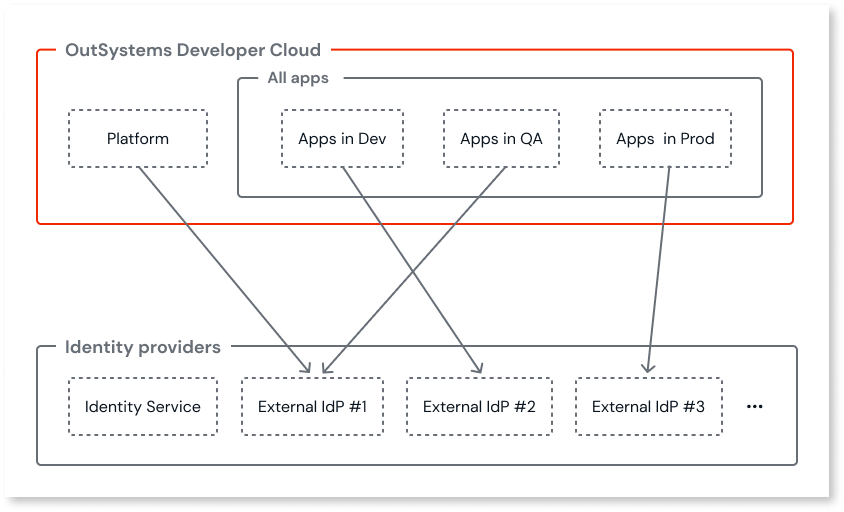
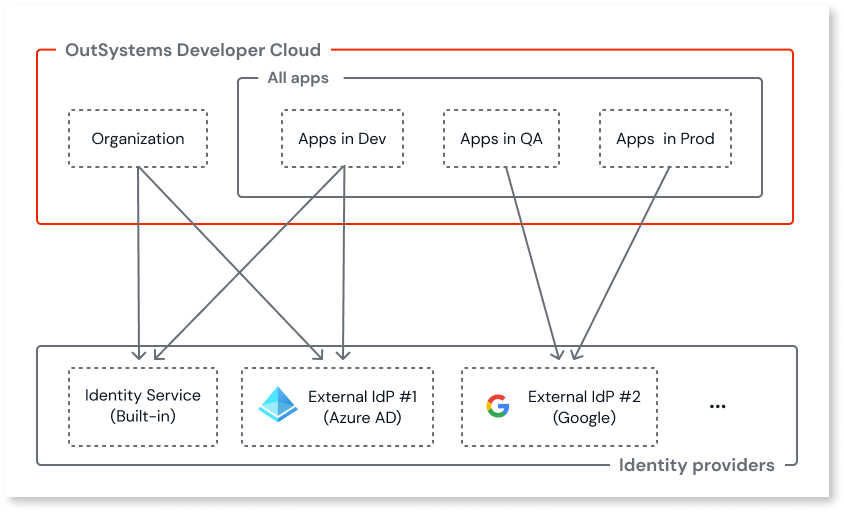
About social logins and multiple AuthN providers

diff --git a/src/eap/external-idps/intro.md b/src/eap/external-idps/intro.md
@@ -1,5 +1,5 @@
 ---
-summary: Information about external IdPs and how to use them
+summary: Information about external IdPs and how to use them.
 tags: 
 locale: en-us
 guid: 5aa8692d-68bf-41a1-89ec-5e8fc7069e29
@@ -8,15 +8,15 @@ app_type: mobile apps, reactive web apps
 
 # Configuring authentication with external identity providers
 
-OutSystems Developer Cloud (ODC) comes bundled with Identity Service, a built-in Identity Provider (IdP). It provides authentication, authorization, and user management for the [Platform services](../architecture/intro.md#platform) and your apps. You access the Platform services through ODC Studio and ODC Portal. As the default IdP, Identity Service is always available.
+OutSystems Developer Cloud (ODC) comes bundled with Identity Service, a built-in Identity Provider (IdP). It provides authentication, authorization, and user management for your [organization](../architecture/intro.md#platform) and apps. You access your organization services through ODC Portal and ODC Studio. As the default IdP, Identity Service is always available.
 
-In addition, you can use an external, self-managed IdP as the authentication provider for the Platform services and your apps. You can use any IdP that follows the OpenID Connect (OIDC) standard. You can configure most commercial IdPs to support this standard. ODC supports using **PKCE** (Proof Key for Code Exchange) with external IdPs for an additional layer of security.
+In addition, you can use an external, self-managed IdP as an authentication provider for your organization and your apps. You can use any IdP that follows the OpenID Connect (OIDC) standard. You can configure most commercial IdPs, such as AzureAD and Okta, to support this standard. ODC supports using **PKCE** (Proof Key for Code Exchange) with external IdPs for an additional layer of security.
 
-When you successfully configure and save an external IdP to ODC, it becomes an option for use as the active provider for the Platform services, your apps, or both. You can use a different active provider for the Platform services and each stage your apps are deployed to. You must use the same provider for all the apps deployed to a given stage. The following diagram shows an example setup.
+You can easily add a [supported social provider](#supported-social-providers) to use social authentication for your organization and your apps.
+
+When you successfully configure and save an external IdP to ODC, it becomes an option for use as an active provider for your organization, your apps, or both. You can use multiple active providers for your organization and each stage your apps are deployed to. You must use the same provider(s) for all the apps deployed to a given stage. The following diagram shows an example setup.
 
 ![External IdPs concept](images/external-idps-setup-example-diag.png "External IdPs concept")
-
-In ODC Portal on the **Users** tab, you can manage users associated with a provider.
 
 ## Before you begin
 
@@ -31,15 +31,22 @@ Before you begin configuring an external identity provider for use in ODC, you n
 * URL of the OpenID configuration
 * Provider credentials. Your provider might use different names for these fields such as **Application ID** for the **Client ID** field and **Client secret** or **Value** for the **Client secret (secret value)** field. For more guidance, see your provider's support documentation.
 
+If you want a user associated with an external provider to retain their profile and associated roles, they should use the same email address as on the built-in provider.
+
 ## Add an external IdP
 
-ODC admins can configure an external IdP by going to the ODC Portal and selecting the **Identity providers** tab. A list of built-in providers any external IdPs already added displays.
+ODC admins can configure an external IdP by going to the ODC Portal and selecting the **Identity providers** tab. A list of built-in providers and any external IdPs already added displays.
 
-To launch the **New provider** configuration screen, click the **Add Provider** > **OpenID Connect** button. Now follow these steps:
+To launch the **New provider** configuration screen, click the **Add Provider** dropdown and select **OpenID Connect** or a supported social provider. Now follow these steps:
+
+### OpenID Connect
 
 1. Enter a name for the new provider in the **Provider name** field. This can be any name less than 255 characters and can't include special characters.
+
 1. Enter the URL of the OpenID configuration in the **Discovery endpoint** field. 
+
 1. Click **Get details**. ODC retrieves the JSON of the OpenID configuration and shows a preview. 
+
 1. Enter the credentials for the provider in the **Client ID** and **Client secret (secret value)** fields. Then, select **PKCE** if your provider supports it.
 
     <div class="info" markdown="1">
@@ -47,98 +54,74 @@ To launch the **New provider** configuration screen, click the **Add Provider** 
     </div>
 
 1. If your provider uses different attribute names, then in the **Claim Mapping** section overwrite the prefilled **Name** and **Email** fields. Otherwise, skip this step. For more guidance, see your provider's support documentation.
-1. Click **Save**. ODC tests the configuration and on success adds the provider to the list of available providers. If the test fails, a notification with the error displays.
 
-## Apply an external IdP
+1. Click **Save configuration**. ODC tests the configuration and, on success, adds the provider to the list of available providers. If the test fails, a notification with the error displays.
 
-To apply an added external IdP, navigate to the **Identity providers** tab in ODC Portal. Then follow these steps:
+### Supported social provider
 
-1. Click on the card of the provider you want to apply as the provider for the Platform services, your apps, or both.
-1. Check the summary of the configuration details. If you want to proceed, click the **Apply provider** button.
-1. Check the boxes of where you want to apply the provider and then click **Next**.
+1. Enter a name for the new provider in the **Provider name** field. This can be any name less than 255 characters and can't include special characters.
+
+1. Enter the credentials for the provider in the **Client ID** and **Client secret** fields.
 
     <div class="info" markdown="1">
 
-    When you switch the IdP for your Platform services or apps, all signed-in users get logged out when their current access token expires. They have to log back in using the newly applied provider. For the Platform services, they may have to wait several minutes to log back in while new certificates are processed.
+    ODC safely stores the configuration details in a secret manager.
 
     </div>
 
-1. Read the confirmation pop-up and then do one of the following:
-    * Click the **Replace provider** button to confirm. 
-    * Click the **Cancel** to exit.
+1. Click **Save configuration**. ODC tests the configuration and, on success, adds the provider to the list of available providers. If the test fails, a notification with the error displays.
+
+## Assign an external IdP
+
+To assign an added external IdP, navigate to the **Identity providers** tab in ODC Portal. Then follow these steps:
+
+1. Click on the provider card you want to assign as a provider for your organization, your apps, or both.
+
+1. Check the summary in **Configuration details**. If you want to proceed, click the **Assign** button (when provider not assigned anywhere yet) or **Manage assignments** (when already assigned).
+
+    <div class="info" markdown="1">
+
+    You can assign a maximum of two identity providers to each app stage.
+
+    </div>
+
+1. Check the boxes where you want to assign the provider. For each app stage you assign, select **Add to the current list of providers** or **Replace all current providers**. If you replace all current providers, all end-users for all apps in each app stage(s) you assign can no longer authenticate with the currently assigned provider(s).
+
+1. Copy the pair(s) of **Redirect URLs** to the list of permitted redirects in the setup page of your external provider. You should copy the pair(s) for both the built-in domain and any active [custom domains](../custom-domains.md). If you're configuring [Okta](okta.md#setup-redirect-urls) you can follow the embedded link for specific guidance. Otherwise see your provider's support documentation for further guidance (for example, [Azure AD](https://learn.microsoft.com/en-us/azure/active-directory/develop/quickstart-register-app#add-a-redirect-uri)). Click **Next**.
+
+    <div class="info" markdown="1">
+
+    When you switch the IdP for your organization or apps, all signed-in users get logged out when their current access token expires. They have to log back in using the newly assigned provider. Users may have to wait several minutes to log back in while new certificates are processed.
+
+    </div>
+
+1. Read the confirmation summary, then do one of the following:
+    * Click the **Apply changes** button to confirm. 
+    * Click the **Previous** to exit.
 
     Once ODC applies the provider successfully, a notification displays.
 
-1. Copy the pair(s) of **Redirect URLs** to the list of permitted redirects in the setup page of your external provider. You should copy the pair(s) for both the built-in domain and any active [custom domains](../custom-domains.md). If you're configuring [Okta](okta.md#setup-redirect-urls) you can follow the embedded link for specific guidance. Otherwise see your provider's support documentation for further guidance (for example, [Azure AD](https://learn.microsoft.com/en-us/azure/active-directory/develop/quickstart-register-app#add-a-redirect-uri)).
-
 <div class="info" markdown="1"> 
 
-When a provider is applied to the Platform services, new certificates are processed. This process may take several minutes. When it completes, you can log back into ODC Portal.
+When a provider is assigned to your organization, new certificates are processed. This process may take several minutes. When it completes, you can log back into ODC Portal.
 
 </div>
 
-## Use external IdP in an app { #in-an-app }
+When a provider is assigned for use by the apps, you need to create the logic in ODC Studio for each app you want to use it. Follow the guidance on how to do that [here](apps.md).
 
-After you apply an external IdP to stage(s) (Dev, QA, Prod) in ODC Portal, you must modify the end-user login and logout flow for each app in which you want to use it. 
+## Edit the configuration or delete an external IdP
 
-One solution is to replace the built-in provider with the external provider. For each app, open it in ODC Studio and follow the steps in the **Modify main user login flow**, **Modify user info bar login flow** and **Modify user info bar logout flow** sections below.
+You can only edit or delete a provider not in use. Navigate to the **Identity providers** tab in ODC Portal. Then:
 
-### Modify main user login flow
+1. Click on the provider card you want to edit or delete.
 
-1. To load the login action onto the canvas, click the **Interface** tab, then expand the **UI Flows** > **Common** folder and double-click **OnException**. You see the end-user login flow for the built-in provider.
+1. Click the ellipsis button to the right of the **Assign** button. Then click the **Edit configuration** or **Delete provider** button to launch the edit page or launch the delete confirm pop-up.
 
-    ![Built-in provider flow](images/built-in-provider-flow-ss.png "Built-in provider flow")
+## Supported social providers
 
-1. To delete the built-in login screen, delete the **Common\Login**  element from the logic flow.
+ODC provides accelerators to add the following social providers easily.
 
-1. Navigate to the **Add public elements** icon on the top toolbar of ODC Studio or use the **Ctrl+Q** shortcut. Search for the [**GetExternalLoginURL** action](../reference/system-actions/auth.md#getexternallogouturl), select it, and click **Add**.
-
-1. Click the **Logic** tab. Expand the **Client Actions** > **(System)** folder. Drag the **GetExternalLoginURL** action in place after the **LastRequest** element.
-
-1. For the **IdentityProvider** setting, use the name of the provider you applied in ODC Portal. It takes the form of a string. For example, `"providerA"`.
-
-1. Drag a **Destination** element from the toolbox bar to end the flow. A **Select Destination** popup screen displays. Expand the **UI Flows** > **Common** folder and select **RedirectToURL**.
-
-    ![External provider flow](images/external-provider-flow-ss.png "Built-in provider flow")
-
-1. In the Properties pane for the **RedirectToURL** action, set the **URL** setting to `GetExternalLoginURL.ExternalLoginURL`. This is where the user is redirected to perform the login.
-
-### Modify user info bar login flow
-
-1. Click the **Interface** tab, then expand the **UI Flows** > **Common** folder and double-click **UserInfo**. You see the user info block which by default displays in the right corner of the top bar of your published app.
-
-1. Click the **Login** text. Hover over the **Text** button and then click the **Link** button. The **Properties** pane displays to the right of the canvas.
-
-1. In the **On Click** setting select **New Client Action** from the dropdown. A new client action is created, set in the **On Click** setting and displayed on the canvas.
-
-1. Click the **Logic** tab. Expand the **Client Actions** > **(System)** folder. Drag the **GetExternalLoginURL** action in place after the **Start** element.
-
-1. For the **IdentityProvider** setting, use the name of the provider you applied in ODC Portal. It takes the form of a string. For example, `"providerA"`.
-
-1. Delete the **End** element. Drag a **Destination** element from the toolbox bar to end the flow. A **Select Destination** popup screen displays. Expand the **UI Flows** > **Common** folder and select **RedirectToURL**.
-
-    ![New UserInfo action](images/new-userinfo-action-ss.png "New UserInfo action")
-
-1. In the Properties pane for the **RedirectToURL** action, set the **URL** setting to `GetExternalLoginURL.ExternalLoginURL`. This is where the user is redirected to perform the login.
-
-### Modify user info bar logout flow
-
-1. Click the **Interface** tab, then expand the **UI Flows** > **Common** > **UserInfo** folder and double-click **ClientLogout**. You see the logout action for the user info bar.
-
-    ![ClientLogout](images/clientlogout-ss.png "ClientLogout")
-
-1. To delete the built-in logout action, delete the **Logout** element from the logic flow.
-
-1. Navigate to the **Add public elements** icon on the top toolbar of ODC Studio or use the **Ctrl+Q** shortcut. Search for the [**GetExternalLogoutURL** action](../reference/system-actions/auth.md#getexternallogouturl), select it, and click **Add**.
-
-    ![ClientLogout Modified](images/clientlogout-mod-ss.png "ClientLogout Modified")
-
-1. Click the **Logic** tab. Expand the **Client Actions** > **(System)** folder. Drag the **GetExternalLogoutURL** action in place after the **Start** element.
-
-After you complete all the steps in all the sections, republish and [promote](../deploy-apps.md) the revision of the app to the stage(s) where the provider is active.
-
-If you revert the provider for stage(s) back to the built-in provider, you must also revert the end-user login and logout flow for the apps back to the original state.
-
-## Edit an external IdP
-
-You can only edit the configuration details for a provider not in use. Edit the configuration details in the **Identity providers** tab of the ODC Portal.
+| Provider    |
+| ----------- |
+| Google      |
+| Facebook    |

diff --git a/src/eap/external-idps/apps.md b/src/eap/external-idps/apps.md
@@ -1,0 +1,108 @@
+---
+summary: Use external identity provider in an app
+tags: 
+locale: en-us
+guid: e2b2541f-80b6-49b7-8961-8b7ad2ad65f3
+app_type: mobile apps, reactive web apps
+---
+
+# Use external identity providers in an app
+
+After assigning an external IdP to stage(s) (Development, QA, Production) in ODC Portal, you must modify the end-user login and logout flows for each app you want to use it.
+
+There are two ways you can do this. 
+
+1. [**Delete the built-in login screen and redirect to an external provider.**](#delete-the-built-in-login-screen-and-redirect-to-external-provider) The recommended solution if you want to use a single external provider for your app, without the option of built-in provider.
+
+2. [**Modify the built-in login screen to add button(s) for external provider login.**](#modify-the-built-in-login-screen-to-add-buttons-for-external-provider-login) The recommended solution if using multiple external providers or a single external provider and retain the option to login with the built-in provider.
+
+After you complete the steps for your selected solution, republish the app and [promote](../deploy-apps.md) the new revision to the stage(s) where the provider is active.
+
+## Delete the built-in login screen and redirect to external provider
+
+For each app you want to modify, open it in ODC Studio and follow the steps in the **Modify main user login flow**, **Modify user info bar login flow** and **Modify user info bar logout flow** sections below.
+
+### Modify main user login flow
+
+
+To load the login action onto the canvas, click the **Interface** tab, then expand the **UI Flows** > **Common** folder and double-click **OnException**. You see the end-user login flow for the built-in provider on the left. Now follow these steps.
+
+1. Delete the built-in login screen by deleting the **Common\Login**  element from the logic flow.
+
+    ![Built-in provider flow](images/built-in-provider-flow-ss.png "Built-in provider flow")
+
+1. Navigate to the **Add public elements** icon on the top toolbar of ODC Studio or use the **Ctrl+Q** shortcut. Search for the [**GetExternalLoginURL** action](../reference/system-actions/auth.md#getexternalloginurl), select it, and click **Add**.
+
+1. Click the **Logic** tab. Expand the **Client Actions** > **(System)** folder. Drag the **GetExternalLoginURL** action in place after the **LastRequest** element and connect them.
+
+1. In the **Properties** pane for **GetExternalLoginURL** action, set **IdentityProvider** using the name of the provider you applied in ODC Portal. Input as a Text data type. For example, `"providerA"`.
+
+1. Drag a **Destination** element from the toolbox bar to end the flow. A **Select Destination** popup screen displays. Expand the **UI Flows** > **Common** folder and select **RedirectToURL**.
+
+    ![External provider flow](images/external-provider-flow-ss.png "Built-in provider flow")
+
+1. In the Properties pane for the **RedirectToURL** action, set the **URL** setting to `GetExternalLoginURL.ExternalLoginURL`. This is where the user is redirected to perform the login.
+
+### Modify user info bar login flow
+
+Click the **Interface** tab, then expand the **UI Flows** > **Common** folder and double-click **UserInfo**. You see the user info block which by default displays in the right corner of the top bar of your published app. Now follow these steps.
+
+1. Click the **Login** text. Hover over the **Text** button and then click the **Link** button. The **Properties** pane for the **Link** button displays to the right of the canvas.
+
+1. In the **On Click** setting replace **Common\Login** by selecting **New Client Action** from the dropdown. A new client action is created, set in the **On Click** setting and displayed on the canvas.
+
+1. Click the **Logic** tab. Expand the **Client Actions** > **(System)** folder. Drag the **GetExternalLoginURL** action in place after the **Start** element.
+
+1. In the **Properties** pane for **GetExternalLoginURL** action, set **IdentityProvider** using the name of the provider you applied in ODC Portal. Input as a Text data type. For example, `"providerA"`.
+
+1. Delete the **End** element. Drag a **Destination** element from the toolbox bar to end the flow. A **Select Destination** popup screen displays. Expand the **UI Flows** > **Common** folder and select **RedirectToURL**.
+
+    ![New UserInfo action](images/new-userinfo-action-ss.png "New UserInfo action")
+
+1. In the Properties pane for the **RedirectToURL** action, set the **URL** setting to `GetExternalLoginURL.ExternalLoginURL`. This is where the user is redirected to perform the login. 
+
+### Modify user info bar logout flow
+
+Click the **Interface** tab, then expand the **UI Flows** > **Common** > **UserInfo** folder and double-click **ClientLogout**. You see the logout action for the user info bar. Now follow these steps.
+
+1. Delete the built-in logout action by deleting the **Logout** element from the logic flow.
+
+    ![ClientLogout](images/clientlogout-ss.png "ClientLogout")
+
+1. Navigate to the **Add public elements** icon on the top toolbar of ODC Studio or use the **Ctrl+Q** shortcut. Search for the [**GetExternalLogoutURL** action](../reference/system-actions/auth.md#getexternallogouturl), select it, and click **Add**.
+
+    ![ClientLogout Modified](images/clientlogout-mod-ss.png "ClientLogout Modified")
+
+1. Click the **Logic** tab. Expand the **Client Actions** > **(System)** folder. Drag the **GetExternalLogoutURL** action in place after the **Start** element.
+
+<div class="info" markdown="1">
+
+If you revert the provider for stage(s) back to the built-in provider, you must change the login flow for the apps back to that shown in Step 1.
+
+</div>
+
+## Modify the built-in login screen to add button(s) for external provider login
+
+To login with an external provider to the built-in login screen, follow the steps below. To add multiple buttons, repeat the steps.
+
+1. To load the login screen onto the canvas, click the **Interface** tab, then expand the **UI Flows** > **Common** folder and double-click **Login**. The built-in login screen displays.
+
+1. Drag a **Button** element from the toolbox onto the screen. Place it alongside or below the existing **Log in** button (button for the built-in provider).
+
+1. In the Properties pane for the new button change the **Text** setting of the button to meet your requirement, for example `Log in with providerA`. You may also want to modify the **Text** setting of pre-existing **Log in** button.
+
+    ![Login screen modified](images/login-screen-modified-ss.png "Login screen modified")
+
+1. In the **On Click** setting select **New Client Action** from the dropdown. A new client action is created, set in the **On Click** setting and displayed on the canvas. Delete the **LoginForm.Valid?** element and associated logic.
+
+1. Navigate to the **Add public elements** icon on the top toolbar of ODC Studio or use the **Ctrl+Q** shortcut. Search for the [**GetExternalLoginURL** action](../reference/system-actions/auth.md#getexternalloginurl), select it, and click **Add**.
+
+1. Click the **Logic** tab. Expand the **Client Actions** > **(System)** folder. Drag the **GetExternalLoginURL** action in place after the **Start** element.
+
+1. In the **Properties** pane for **GetExternalLoginURL** action, set **IdentityProvider** using the name of the provider you applied in ODC Portal. Input as a Text data type. For example, `"providerA"`.
+
+1. Delete the **End** element. Drag a **Destination** element from the toolbox bar to end the flow. A **Select Destination** popup screen displays. Expand the **UI Flows** > **Common** folder and select **RedirectToURL**.
+
+    ![New UserInfo action](images/new-userinfo-action-ss.png "New UserInfo action")
+
+1. In the Properties pane for the **RedirectToURL** action, set the **URL** setting to `GetExternalLoginURL.ExternalLoginURL`. This is where the user is redirected to perform the login.

diff --git a/src/eap/external-idps/okta.md b/src/eap/external-idps/okta.md
@@ -64,4 +64,4 @@ To add permitted redirects for the Okta provider follow the steps below.
 
 1. Click **Save**.
 
-If you applied the newly added Okta provider for use in your apps, now follow the steps [here](intro.md#use-external-idp-in-an-app--in-an-app).
+If you applied the newly added Okta provider for use in your apps, now follow the steps [here](apps.md).

diff --git a/src/eap/reference/system-actions/auth.md b/src/eap/reference/system-actions/auth.md
@@ -61,7 +61,7 @@ _Outputs_
 
 <div class="info" markdown="1">
 
-You can learn about how to use this action in your apps [here](../../external-idps/intro.md#use-external-idp-in-an-app--in-an-app).
+You can learn about how to use this action in your apps [here](../../external-idps/apps.md).
 
 </div>
 
